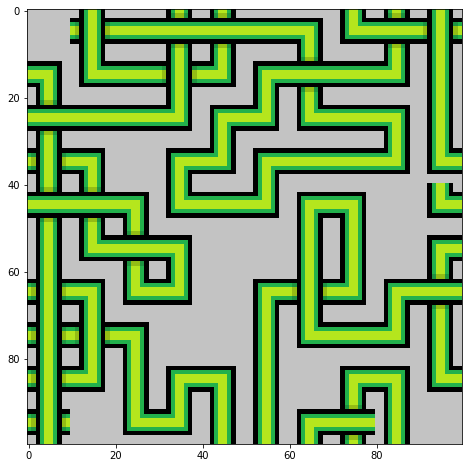
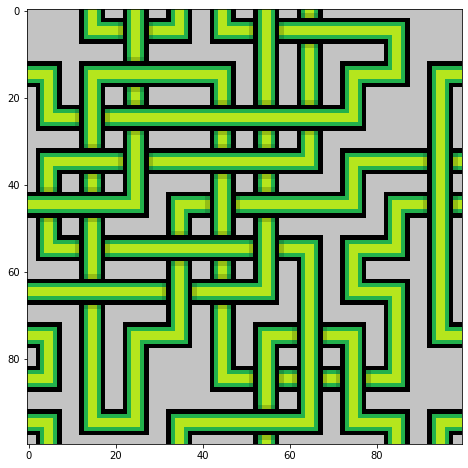
QUBO fixes

diff --git a/README.md b/README.md
@@ -52,22 +52,16 @@ the value is 1 if tile **t** is present at row **r** and column **c** in sample 
 
 **NotAllowedLeft** is the set of all pairs of tiles where 2nd tile is not allowed to be on the left of the first tile.
 
-<img src="https://i.upmath.me/svg/countPerTile%20%3D%20%5Cleft%20%5Clfloor%20%5Cfrac%7BnumColumns*numRows%7D%7BnumTiles%7D%5Cright%20%5Crceil" alt="countPerTile = \left \lfloor \frac{numColumns*numRows}{numTiles}\right \rceil" />
-
-**countPerTile** is the desired count of each tile in our generated tilemap.
 
 The Objective Function can then be defined as:-
 
-<img src="https://i.upmath.me/svg/E(M)%20%3D%20%5Calpha%20%5Cbigg(%5Csum_%7Bc%3D0%7D%5E%7BnumColumns-1%7D%5Csum_%7Br%3D1%7D%5E%7BnumRows-1%7D%5Csum%20%5C%7B(M_%7Br%2Cc%2Ct_%7B1%7D%7D%2BM_%7Br-1%2Cc%2Ct_%7B2%7D%7D-1)%5E%7B2%7D%7C%5Cforall%20(t_%7B1%7D%2Ct_%7B2%7D)%20%5Cin%20NotAllowedTop%5C%7D%5Cbigg)%0A%5Cnewline%0A%2B%0A%5Cbeta%20%5Cbigg(%5Csum_%7Bc%3D1%7D%5E%7BnumColumns-1%7D%5Csum_%7Br%3D0%7D%5E%7BnumRows-1%7D%5Csum%20%5C%7B(M_%7Br%2Cc%2Ct_%7B1%7D%7D%2BM_%7Br%2Cc-1%2Ct_%7B2%7D%7D-1)%5E%7B2%7D%7C%5Cforall%20(t_%7B1%7D%2Ct_%7B2%7D)%20%5Cin%20NotAllowedLeft%5C%7D%5Cbigg)%0A%5Cnewline%0A%2B%0A%5Cdelta%20%5Cbigg(%5Csum_%7Bc%3D0%7D%5E%7BnumColumns-1%7D%5Csum_%7Br%3D0%7D%5E%7BnumRows-1%7D(1-%5Csum_%7Bt%3D0%7D%5E%7BnumTiles-1%7D%20M_%7Br%2Cc%2Ct%7D)%5E%7B2%7D%5Cbigg)%0A%5Cnewline%0A%2B%0A%5Cepsilon%20%5Cbigg(%5Csum_%7Bt%3D0%7D%5E%7BnumTiles-1%7D%20%5Cbig%20(countPerTile%20-%5Csum_%7Bc%3D0%7D%5E%7BnumColumns-1%7D%5Csum_%7Br%3D0%7D%5E%7BnumRows-1%7D%20M_%7Br%2Cc%2Ct%7D)%5E%7B2%7D%5Cbigg)" alt="E(M) = \alpha \bigg(\sum_{c=0}^{numColumns-1}\sum_{r=1}^{numRows-1}\sum \{(M_{r,c,t_{1}}+M_{r-1,c,t_{2}}-1)^{2}|\forall (t_{1},t_{2}) \in NotAllowedTop\}\bigg)
+<img src="https://i.upmath.me/svg/E(M)%20%3D%20%5Csum_%7Bc%3D0%7D%5E%7BnumColumns-1%7D%5Csum_%7Br%3D1%7D%5E%7BnumRows-1%7D%5Csum%20%5C%7BM_%7Br%2Cc%2Ct_%7B1%7D%7D%20%5Ccdot%20M_%7Br-1%2Cc%2Ct_%7B2%7D%7D%7C%5Cforall%20(t_%7B1%7D%2Ct_%7B2%7D)%20%5Cin%20NotAllowedTop%5C%7D%0A%5Cnewline%0A%2B%0A%5Csum_%7Bc%3D1%7D%5E%7BnumColumns-1%7D%5Csum_%7Br%3D0%7D%5E%7BnumRows-1%7D%5Csum%20%5C%7BM_%7Br%2Cc%2Ct_%7B1%7D%7D%20%5Ccdot%20M_%7Br%2Cc-1%2Ct_%7B2%7D%7D%7C%5Cforall%20(t_%7B1%7D%2Ct_%7B2%7D)%20%5Cin%20NotAllowedLeft%5C%7D%0A%5Cnewline%0A%2B%0A%5Cgamma%20%20%5Cbigg(%5Csum_%7Bc%3D0%7D%5E%7BnumColumns-1%7D%5Csum_%7Br%3D0%7D%5E%7BnumRows-1%7D(1-%5Csum_%7Bt%3D0%7D%5E%7BnumTiles-1%7D%20M_%7Br%2Cc%2Ct%7D)%5E%7B2%7D%5Cbigg)" alt="E(M) = \sum_{c=0}^{numColumns-1}\sum_{r=1}^{numRows-1}\sum \{M_{r,c,t_{1}} \cdot M_{r-1,c,t_{2}}|\forall (t_{1},t_{2}) \in NotAllowedTop\}
 \newline
 +
-\beta \bigg(\sum_{c=1}^{numColumns-1}\sum_{r=0}^{numRows-1}\sum \{(M_{r,c,t_{1}}+M_{r,c-1,t_{2}}-1)^{2}|\forall (t_{1},t_{2}) \in NotAllowedLeft\}\bigg)
+\sum_{c=1}^{numColumns-1}\sum_{r=0}^{numRows-1}\sum \{M_{r,c,t_{1}} \cdot M_{r,c-1,t_{2}}|\forall (t_{1},t_{2}) \in NotAllowedLeft\}
 \newline
 +
-\delta \bigg(\sum_{c=0}^{numColumns-1}\sum_{r=0}^{numRows-1}(1-\sum_{t=0}^{numTiles-1} M_{r,c,t})^{2}\bigg)
-\newline
-+
-\epsilon \bigg(\sum_{t=0}^{numTiles-1} \big (countPerTile -\sum_{c=0}^{numColumns-1}\sum_{r=0}^{numRows-1} M_{r,c,t})^{2}\bigg)" />
+\gamma  \bigg(\sum_{c=0}^{numColumns-1}\sum_{r=0}^{numRows-1}(1-\sum_{t=0}^{numTiles-1} M_{r,c,t})^{2}\bigg)" />
 
 To represent the Objective Function as QUBO, it needs to be simplified.
 
@@ -78,22 +72,17 @@ We know that,
 
 So, the Objective Function can be simplified as:-
 
-<img src="https://i.upmath.me/svg/E(M)%20%3D%20%5Calpha%20%5Cbigg(%5Csum_%7Bc%3D0%7D%5E%7BnumColumns-1%7D%5Csum_%7Br%3D1%7D%5E%7BnumRows-1%7D%5Csum%20%5C%7B(1%2B2M_%7Br%2Cc%2Ct_%7B1%7D%7DM_%7Br-1%2Cc%2Ct_%7B2%7D%7D-M_%7Br%2Cc%2Ct_%7B1%7D%7D-M_%7Br-1%2Cc%2Ct_%7B2%7D%7D)%7C%5Cforall%20(t_%7B1%7D%2Ct_%7B2%7D)%20%5Cin%20NotAllowedTop%5C%7D%20%5Cbigg)%0A%5Cnewline%0A%2B%0A%5Cbeta%20%5Cbigg(%5Csum_%7Bc%3D1%7D%5E%7BnumColumns-1%7D%5Csum_%7Br%3D0%7D%5E%7BnumRows-1%7D%5Csum%20%5C%7B(1%2B2M_%7Br%2Cc%2Ct_%7B1%7D%7DM_%7Br%2Cc-1%2Ct_%7B2%7D%7D-M_%7Br%2Cc%2Ct_%7B1%7D%7D-M_%7Br%2Cc-1%2Ct_%7B2%7D%7D)%7C%5Cforall%20(t_%7B1%7D%2Ct_%7B2%7D)%20%5Cin%20NotAllowedLeft%5C%7D%5Cbigg)%0A%5Cnewline%0A%2B%0A%5Cgamma%20%5Cbigg(%5Csum_%7Bc%3D0%7D%5E%7BnumColumns-1%7D%5Csum_%7Br%3D0%7D%5E%7BnumRows-1%7D(1-%5Csum_%7Bt%3D0%7D%5E%7BnumTiles-1%7D%20M_%7Br%2Cc%2Ct%7D%20%2B%20%5Csum_%7Bt_%7B1%7D%3D0%7D%5E%7BnumTiles-1%7D%20%5Csum_%7Bt_%7B2%7D%3Et_%7B1%7D%7D%5E%7B%7D%202M_%7Br%2Cc%2Ct_%7B1%7D%7DM_%7Br-1%2Cc%2Ct_%7B2%7D%7D)%5Cbigg)%0A%5Cnewline%0A%2B%0A%5Cepsilon%20%5Cbigg(%5Csum_%7Bt%3D0%7D%5E%7BnumTiles-1%7D%20%5Cbig%20(countPerTile%5E%7B2%7D%20%2B%20(-2a%2B1)countPerTile%5Csum_%7Bc%3D0%7D%5E%7BnumColumns-1%7D%5Csum_%7Br%3D0%7D%5E%7BnumRows-1%7D%20M_%7Br%2Cc%2Ct%7D%0A%5Cnewline%0A%2B%0A%5Csum_%7Bc_%7B1%7D%3D0%7D%5E%7BnumColumns-1%7D%5Csum_%7Br_%7B1%7D%3D0%7D%5E%7BnumRows-1%7D%20%5Csum_%7Bc_%7B2%7D%3Ec_%7B1%7D%7D%5E%7B%7D%20%5Csum_%7Br_%7B2%7D%3Er_%7B1%7D%7D%5E%7B%7D%202M_%7Br_%7B1%7D%2Cc_%7B1%7D%2Ct%7DM_%7Br_%7B2%7D%2Cc_%7B2%7D%2Ct%7D%0A)%5Cbigg)" alt="E(M) = \alpha \bigg(\sum_{c=0}^{numColumns-1}\sum_{r=1}^{numRows-1}\sum \{(1+2M_{r,c,t_{1}}M_{r-1,c,t_{2}}-M_{r,c,t_{1}}-M_{r-1,c,t_{2}})|\forall (t_{1},t_{2}) \in NotAllowedTop\} \bigg)
+<img src="https://i.upmath.me/svg/E(M)%20%3D%20%5Csum_%7Bc%3D0%7D%5E%7BnumColumns-1%7D%5Csum_%7Br%3D1%7D%5E%7BnumRows-1%7D%5Csum%20%5C%7BM_%7Br%2Cc%2Ct_%7B1%7D%7D%20%5Ccdot%20M_%7Br-1%2Cc%2Ct_%7B2%7D%7D%7C%5Cforall%20(t_%7B1%7D%2Ct_%7B2%7D)%20%5Cin%20NotAllowedTop%5C%7D%0A%5Cnewline%0A%2B%0A%5Csum_%7Bc%3D1%7D%5E%7BnumColumns-1%7D%5Csum_%7Br%3D0%7D%5E%7BnumRows-1%7D%5Csum%20%5C%7BM_%7Br%2Cc%2Ct_%7B1%7D%7D%20%5Ccdot%20M_%7Br%2Cc-1%2Ct_%7B2%7D%7D%7C%5Cforall%20(t_%7B1%7D%2Ct_%7B2%7D)%20%5Cin%20NotAllowedLeft%5C%7D%0A%5Cnewline%0A%2B%0A%5Cgamma%20%5Cbigg(%5Csum_%7Bc%3D0%7D%5E%7BnumColumns-1%7D%5Csum_%7Br%3D0%7D%5E%7BnumRows-1%7D(1-%5Csum_%7Bt%3D0%7D%5E%7BnumTiles-1%7D%20M_%7Br%2Cc%2Ct%7D%20%2B%20%5Csum_%7Bt_%7B1%7D%3D0%7D%5E%7BnumTiles-1%7D%20%5Csum_%7Bt_%7B2%7D%3Et_%7B1%7D%7D%5E%7B%7D%202M_%7Br%2Cc%2Ct_%7B1%7D%7DM_%7Br-1%2Cc%2Ct_%7B2%7D%7D)%5Cbigg)" alt="E(M) = \sum_{c=0}^{numColumns-1}\sum_{r=1}^{numRows-1}\sum \{M_{r,c,t_{1}} \cdot M_{r-1,c,t_{2}}|\forall (t_{1},t_{2}) \in NotAllowedTop\}
 \newline
 +
-\beta \bigg(\sum_{c=1}^{numColumns-1}\sum_{r=0}^{numRows-1}\sum \{(1+2M_{r,c,t_{1}}M_{r,c-1,t_{2}}-M_{r,c,t_{1}}-M_{r,c-1,t_{2}})|\forall (t_{1},t_{2}) \in NotAllowedLeft\}\bigg)
+\sum_{c=1}^{numColumns-1}\sum_{r=0}^{numRows-1}\sum \{M_{r,c,t_{1}} \cdot M_{r,c-1,t_{2}}|\forall (t_{1},t_{2}) \in NotAllowedLeft\}
 \newline
 +
-\gamma \bigg(\sum_{c=0}^{numColumns-1}\sum_{r=0}^{numRows-1}(1-\sum_{t=0}^{numTiles-1} M_{r,c,t} + \sum_{t_{1}=0}^{numTiles-1} \sum_{t_{2}&gt;t_{1}}^{} 2M_{r,c,t_{1}}M_{r-1,c,t_{2}})\bigg)
-\newline
-+
-\epsilon \bigg(\sum_{t=0}^{numTiles-1} \big (countPerTile^{2} + (-2a+1)countPerTile\sum_{c=0}^{numColumns-1}\sum_{r=0}^{numRows-1} M_{r,c,t}
-\newline
-+
-\sum_{c_{1}=0}^{numColumns-1}\sum_{r_{1}=0}^{numRows-1} \sum_{c_{2}&gt;c_{1}}^{} \sum_{r_{2}&gt;r_{1}}^{} 2M_{r_{1},c_{1},t}M_{r_{2},c_{2},t}
-)\bigg)" />
+\gamma \bigg(\sum_{c=0}^{numColumns-1}\sum_{r=0}^{numRows-1}(1-\sum_{t=0}^{numTiles-1} M_{r,c,t} + \sum_{t_{1}=0}^{numTiles-1} \sum_{t_{2}&gt;t_{1}}^{} 2M_{r,c,t_{1}}M_{r-1,c,t_{2}})\bigg)" />
 
 ## Results
+
+### Example 1
 
 In this example, there are 9 tiles and a set of 5 sample maps with 10 rows and 10 columns.
 
@@ -109,3 +98,23 @@ In this example, there are 9 tiles and a set of 5 sample maps with 10 rows and 1
 
 <img src="images/output 1.png"/>
 <img src="images/output 2.png"/>
+
+### Example 2
+In this example, there are 40 tiles and a set of 1000 sample maps with 10 rows and 10 columns.
+
+#### Tiles
+
+Following are some of the tiles from the set of 40 tiles.
+
+<img src="images/allTilesb.png"/>
+
+#### Sample Maps
+
+Following are some of the sample maps from the set of 1000 sample maps.
+
+<img src="images/allMapsb.png"/>
+
+#### Generated Maps
+
+<img src="images/outputb 1.png"/>
+<img src="images/outputb 2.png"/>
